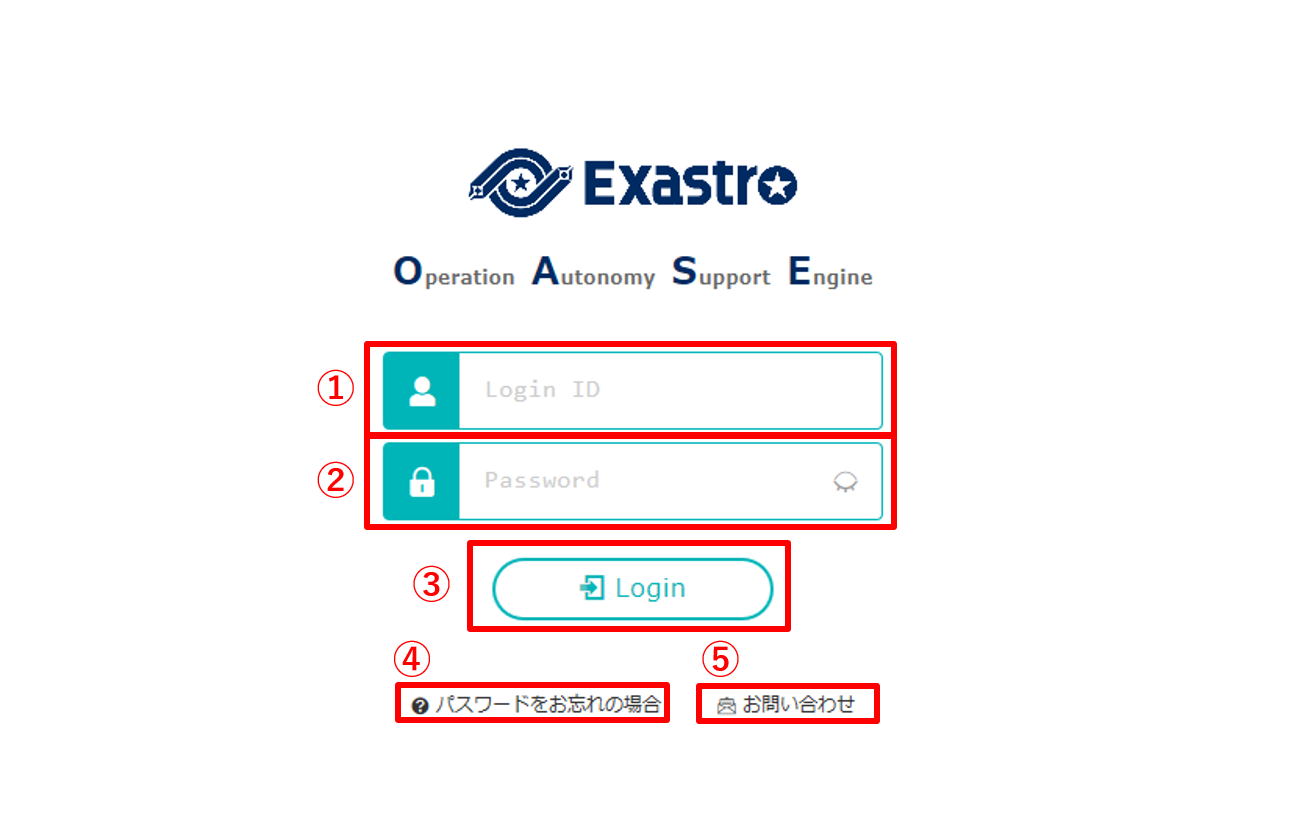
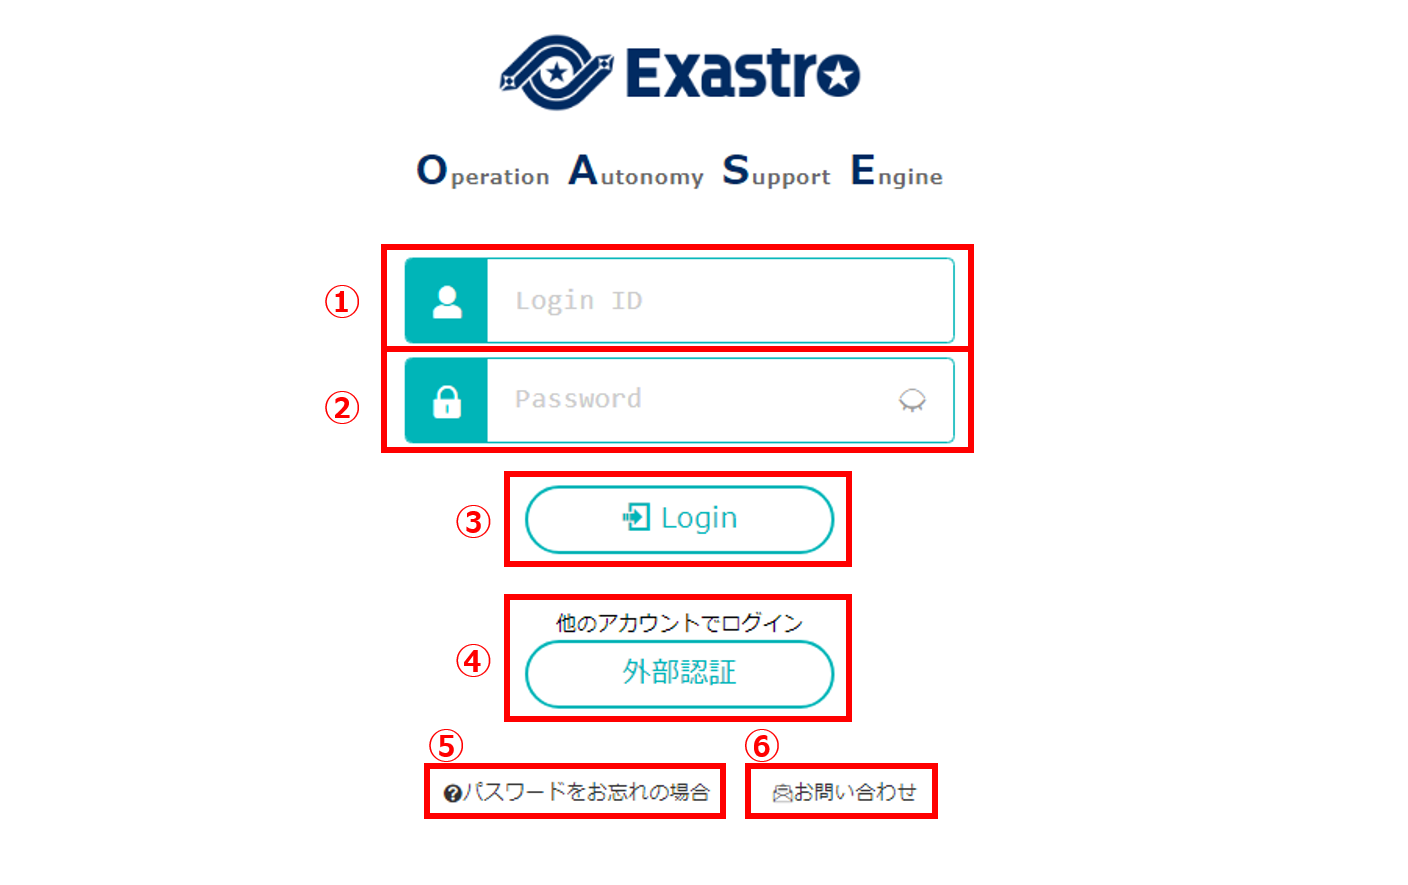
#5630 マニュアル(SSOログイン、および、SSOデフォルトグループを追記)

Changed region(s): [[0.2146, 0.1555, 0.705, 0.933], [0.3372, 0.0311, 0.613, 0.1244]]

diff --git a/oase_documents/group/02_screen_structure.rst b/oase_documents/group/02_screen_structure.rst
@@ -52,10 +52,11 @@
    4, 追加ボタン,グループ情報入力欄を1行ずつ追加します。
    5, 保存ボタン,編集内容を保存します。
    6, システム管理者欄,システム管理者権限を持つグループはデフォルトで登録されています。※編集不可。
-   7, 更新,既存のグループに対し「更新」または「削除」を選択できます。※「4.追加ボタン」押下による新規追加グループには表示されません。
-   8, グループ名,任意のグループ名を入力できます。
-   9, 概要,グループの概要を入力できます。
-   10, 削除ボタン,追加した行を削除します。
+   7, SSOデフォルトグループ欄,外部の認証プロバイダを使用してログインしたユーザに割り当てられます。このグループはデフォルトで登録されています。※削除不可、更新は可能。
+   8, 更新,既存のグループに対し「更新」または「削除」を選択できます。※「4.追加ボタン」押下による新規追加グループには表示されません。
+   9, グループ名,任意のグループ名を入力できます。
+   10, 概要,グループの概要を入力できます。
+   11, 削除ボタン,追加した行を削除します。
 
    
 
@@ -124,7 +125,7 @@
 
 権限ボタン
 ^^^^^^^^^^
-* 初期状態では「システム管理者」の情報のみがセットされています。※アクセス権限の編集はできません。
+* 初期状態では「システム管理者」および「SSOデフォルトグループ」の情報がセットされています。※「システム管理者」のアクセス権限の編集はできません。
 * 「システム管理者」はOASE 内の各画面へのアクセス権限がすべて「更新可能」となっています。
 * 「グループ」画面の権限があるユーザの場合、「システム管理者」以外の「アクセス権限」画面上に「キャンセルボタン」と「編集ボタン」が表示されます。
 
@@ -179,6 +180,13 @@
 * 初期値としてセットされています
 * 「グループ名：システム管理者」の「アクセス権限」及び「グループ名」は変更できません。
 * 「グループ名：システム管理者」の「概要」を変更することができます。
+
+
+SSOデフォルトグループ
+^^^^^^^^^^^^^^^^^^^^^
+* 初期値としてセットされています
+* 「グループ名：SSOデフォルトグループ」の「グループ名」は変更できません。
+* 「グループ名：SSOデフォルトグループ」の「アクセス権限」及び「概要」を変更することができます。
 
 
 入力欄

diff --git a/oase_documents/login/02_screen_structure.rst b/oase_documents/login/02_screen_structure.rst
@@ -25,8 +25,9 @@
    1, ログインID, ログインIDを入力できます。 ※初期ログインIDは administrator です。
    2, パスワード,ログインパスワードを入力できます。※初期ログインパスワードは oaseoaseoase です。
    3, Loginボタン,ログインできます。
-   4, パスワードをお忘れの場合ボタン,パスワードをリセットすることができます。※AD連携時には表示されません。
-   5, お問い合わせボタン,メールによるお問い合わせをすることができます。
+   4, 他のアカウントでログインボタン,有効なシングルサインオン設定がある場合のみ表示されます。外部の認証プロバイダにて認証を行い、OASEへログインします。シングルサインオンの設定につきましては :doc:`../sso_info/index` をご覧ください。
+   5, パスワードをお忘れの場合ボタン,パスワードをリセットすることができます。※AD連携時には表示されません。
+   6, お問い合わせボタン,メールによるお問い合わせをすることができます。
 
 初期パスワード変更画面の画面構成は次のとおりです。
 
